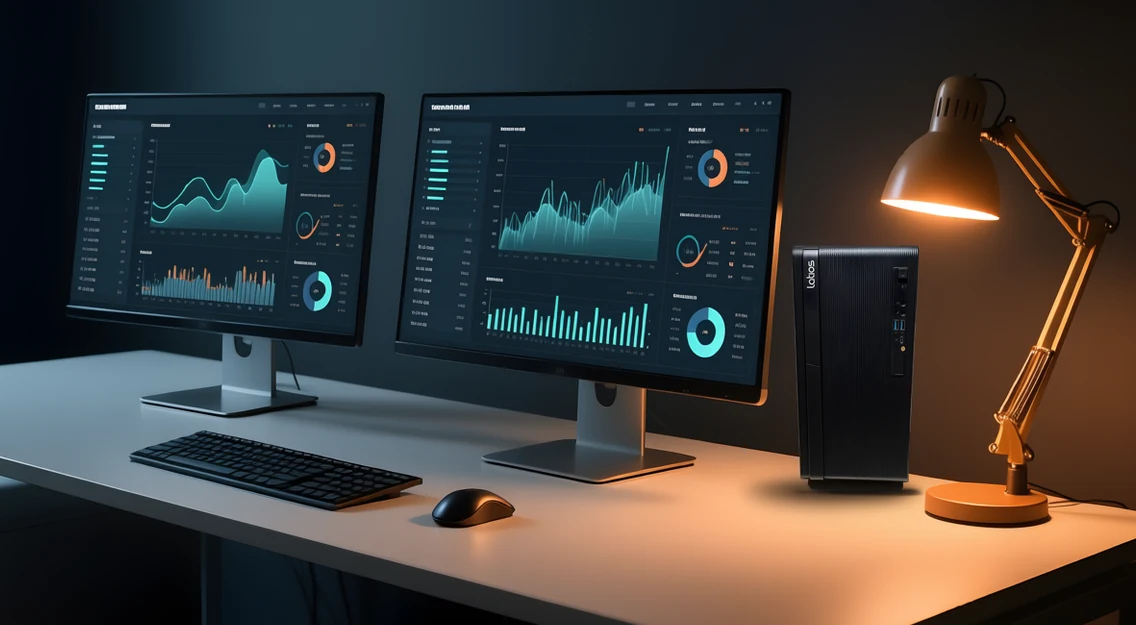
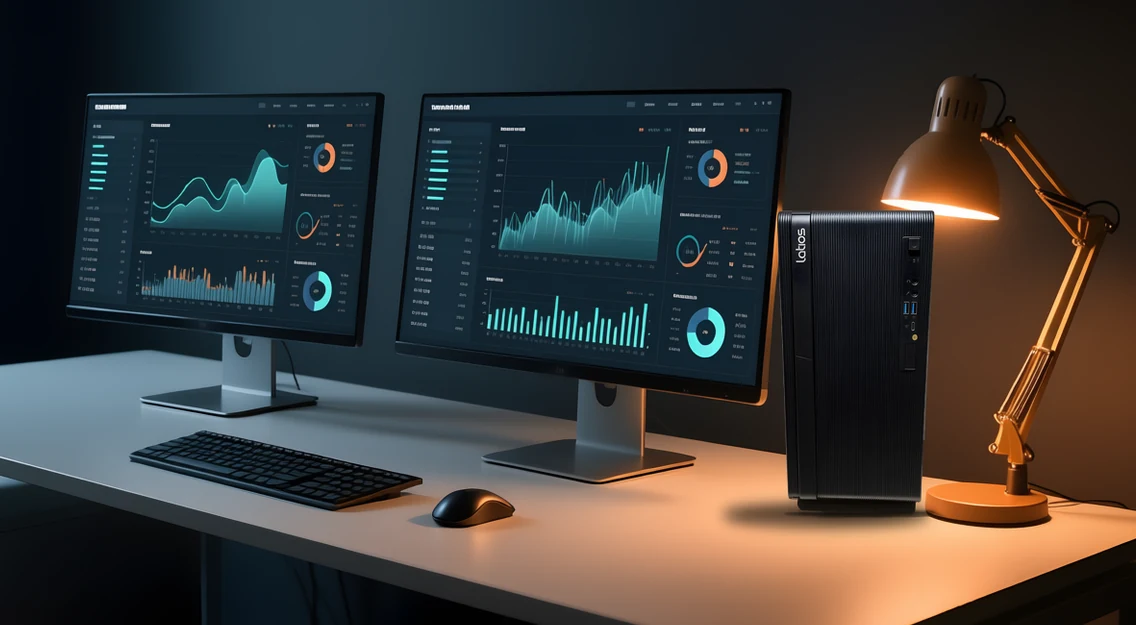
Stand a larger MT on the Dual 4K display desk
The tower now stands forward on the desk, its base just short of the
front edge, at 0.34 of the frame's height instead of 0.275. Sized level
with the monitor stands it read as an accessory in a ~370px card; this
far forward the extra size is perspective, not exaggeration. It sits in
front of the right monitor's edge and the corner of the lamp base.

The scene was re-rendered around it, so the lamp light and the shadow
fit the new size, and the photographed tower is pasted back over the
render as before, so the wordmark and ports stay the real ones.

Changed region(s): [[0.6162, 0.3344, 0.8319, 0.8816]]

diff --git a/tools/image-processing/gen_am4_edits.py b/tools/image-processing/gen_am4_edits.py
@@ -119,9 +119,9 @@ def desk_tower_layout():
     """
     from am4_chassis import front_cutout
     cut = front_cutout()
-    th = int(DESK_H * 0.275)
+    th = int(DESK_H * 0.34)
     cut = cut.resize((round(cut.width * th / cut.height), th), Image.LANCZOS)
-    cx, base = int(DESK_W * 0.795), int(DESK_H * 0.72)
+    cx, base = int(DESK_W * 0.795), int(DESK_H * 0.745)
     return cut, (cx - cut.width // 2, base - cut.height)
 
 
@@ -130,10 +130,13 @@ def stage_desk():
 
     The plate was rendered with no PC so as not to invent Latios hardware; this
     puts the photographed one in. It stands between the right monitor (edge at
-    x 0.75) and the lamp base (from 0.84), on the desk just in front of the
-    monitor stand, sized against the monitor: a ~53 cm screen spans 0.23 of the
-    frame, so the 354 mm tower is ~0.275 of its height. The lamp is up and to the
-    right, so the contact shadow falls left.
+    x 0.75) and the lamp base (from 0.84), forward on the desk -- its base at
+    0.745, just short of the front edge (~0.76 there). Against the monitor (a
+    ~53 cm screen spans 0.23 of the frame) a 354 mm tower level with the stands
+    is ~0.275 of the frame's height; this far forward it reads larger, and at
+    0.34 it holds its own in the card. It overlaps the monitor's edge and the
+    corner of the lamp base, in front of both. The lamp is up and to the right,
+    so the contact shadow falls left.
     """
     W, H = DESK_W, DESK_H
     canvas = Image.open(WORK / "desk-dual.png").convert("RGB").resize((W, H), Image.LANCZOS)
